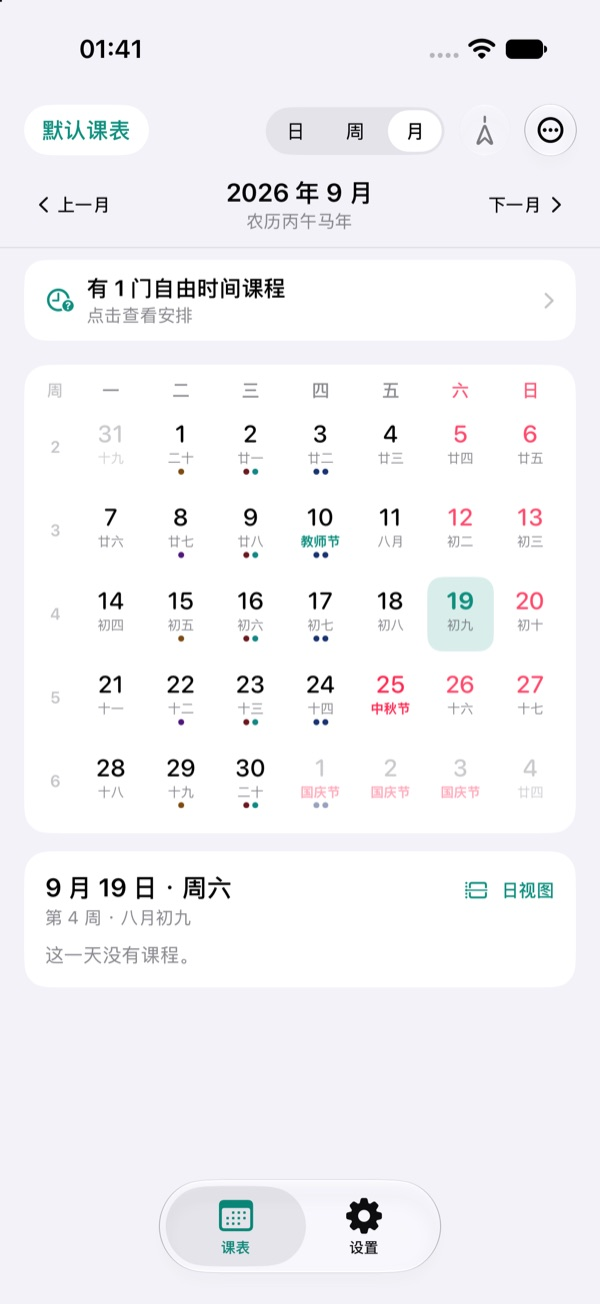
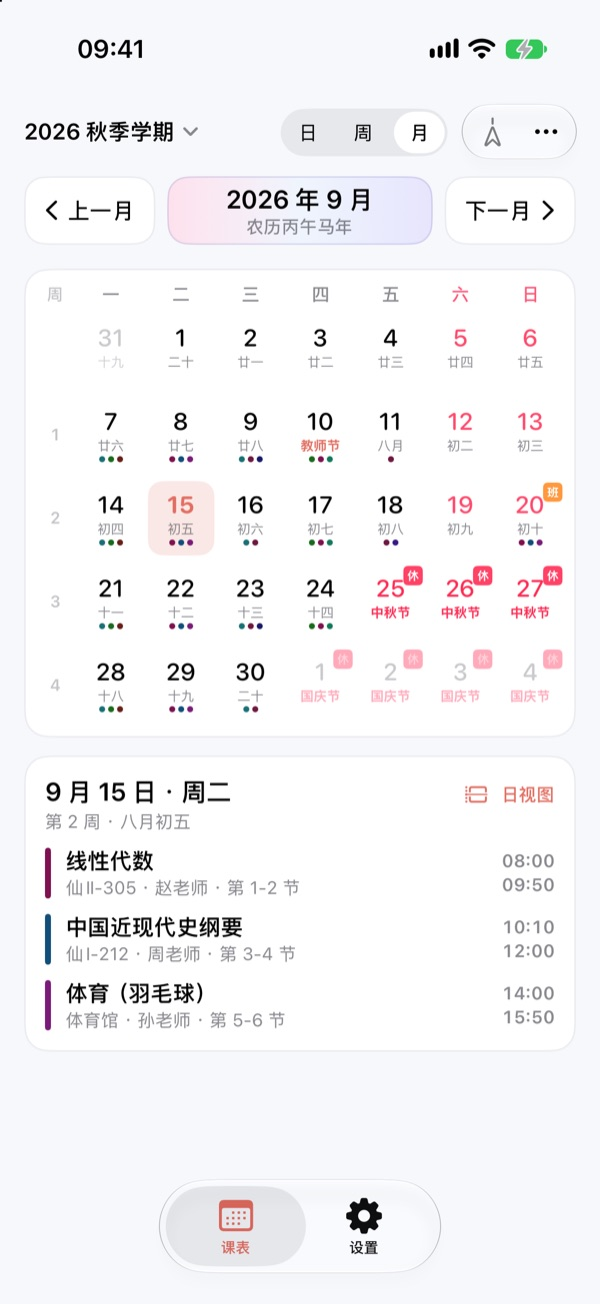
docs(site): new screenshots, no-login Live Activity copy and anti-abuse notes
Screenshots are retaken (day, week and dark week view, Dynamic Island,
lock screen, widgets) and unused ones removed. The Live Activity copy
says no account is needed and the beta is free. The privacy page covers
the hashed share publisher id, App Attest keys and 180-day share expiry.

diff --git a/server/static/site/index.html b/server/static/site/index.html
@@ -4,7 +4,7 @@
 <meta charset="utf-8">
 <meta name="viewport" content="width=device-width, initial-scale=1, viewport-fit=cover">
 <title>你以为课表</title>
-<meta name="description" content="你以为课表：原生 Apple 平台课表应用。日、周、月视图，农历与调休，桌面小组件，实时活动与灵动岛上课提醒。">
+<meta name="description" content="你以为课表：原生 Apple 平台课表应用。周、日、月视图，农历与调休，桌面小组件，锁屏和灵动岛上的实时上课提醒。">
 <link rel="icon" href="/site/img/favicon.png">
 <link rel="apple-touch-icon" href="/site/img/icon.png">
 <link rel="stylesheet" href="/site/site.css">
@@ -15,6 +15,7 @@
     <a class="brand" href="/"><img src="/site/img/favicon.png" alt="">你以为课表</a>
     <nav>
       <a href="#features">功能</a>
+      <a href="#live">实时通知</a>
       <a href="#screens">预览</a>
       <a href="/privacy">隐私政策</a>
     </nav>
@@ -32,8 +33,8 @@
       </ul>
     </div>
     <div class="hero-shots">
-      <img class="phone" src="/site/img/week-view.jpg" alt="周视图：按节次排列的一周课表">
-      <img class="phone" src="/site/img/month-view.jpg" alt="月视图：带农历和节日的月历">
+      <img class="phone back" src="/site/img/month-view.jpg" alt="月视图：带农历、节日和调休标记的月历">
+      <img class="phone front" src="/site/img/week-view.jpg" alt="周视图：按节次排列的一周课表，周日标出调休补班">
     </div>
   </div>
 
@@ -44,13 +45,37 @@
         <p>围绕「我现在要去哪上课」这一件事做好。</p>
       </div>
       <div class="features">
-        <div class="card"><div class="dot">日</div><h3>日、周、月三种视图</h3><p>按天或按周翻页查看课表；月视图显示农历、节日和课程圆点，点一下就能看当天安排。</p></div>
+        <div class="card"><div class="dot">周</div><h3>一周课表，一屏看完</h3><p>默认打开周课表，按节次排好整周课程；也可以切到日视图专看今天，或者用月视图查农历、节日和每天有几节课。</p></div>
         <div class="card"><div class="dot">导</div><h3>从学校导入，或手动创建</h3><p>在学校自己的登录页导入课表，导入前自动检查时间冲突。学校不在列表里，也可以自己设置学期、节次和课程。</p></div>
         <div class="card"><div class="dot">休</div><h3>调休与节假日</h3><p>放假日自动隐藏课程，补班日显示被补那天的课，周视图和月视图标出「班」「休」。</p></div>
-        <div class="card"><div class="dot">件</div><h3>桌面小组件</h3><p>临近课程、今日课表、两日课表多种尺寸，可选时间线或列表布局，课程结束时自动刷新。</p></div>
-        <div class="card"><div class="dot">岛</div><h3>实时活动与灵动岛</h3><p>上课前在锁屏和灵动岛倒计时，课间也可以保留。开启服务端提醒后，不打开 App 也能按时提醒。</p></div>
-        <div class="card"><div class="dot">享</div><h3>分享给同学</h3><p>生成分享码发给朋友，对方看到的是你的课表和你学校的作息；也能把 TA 的课表设为小组件提示来源。</p></div>
+        <div class="card"><div class="dot">件</div><h3>桌面小组件</h3><p>临近课程、今日课表、两日课表多种尺寸，可选时间线或列表布局，上下课时自动刷新。</p></div>
+        <div class="card"><div class="dot">岛</div><h3>锁屏与灵动岛实时通知</h3><p>课前倒计时、上课中显示距下课时间，下课自动换到下一节。由服务端按时启动，不打开 App 也会准时出现。</p></div>
+        <div class="card"><div class="dot">享</div><h3>分享给同学</h3><p>生成分享码发给朋友，对方看到的是你的课表和你学校的作息；也可以关心 TA 的课表，让两个人的课一起提醒。</p></div>
       </div>
+    </div>
+  </section>
+
+  <section id="live">
+    <div class="wrap">
+      <div class="section-head">
+        <h2>下一节课，自己跳出来</h2>
+        <p>实时通知把课程放在锁屏和灵动岛上，从课前一直陪到下课。</p>
+      </div>
+      <div class="live">
+        <div class="live-shots">
+          <img src="/site/img/live-lock-screen.png" alt="锁屏实时活动：大学英语 14:00 上课，距上课 30 分钟" loading="lazy">
+          <img src="/site/img/live-island-expanded.png" alt="灵动岛展开：正在上课，距下课 1 小时 15 分，带进度条" loading="lazy">
+          <img class="compact" src="/site/img/live-island-compact.png" alt="灵动岛紧凑样式：显示距上课倒计时" loading="lazy">
+        </div>
+        <ul class="live-points">
+          <li><strong>课前、课中、课间都有数。</strong>上课前 15 分钟、30 分钟或 1 小时开始倒计时；上课后显示距下课时间和进度；打开「课间也保留」，课间会接着倒计时到下一节。</li>
+          <li><strong>不打开 App 也准时。</strong>服务端按你的节次和周次安排每节课的提醒，通过 Apple 推送启动实时活动，一直到学期结束；iOS 26 及以上还会在手机上预约最近几节。</li>
+          <li><strong>课程内容留在手机上。</strong>上传的只有节次、周次和提醒设置这些时间信息，课程名、老师和教室由手机本地显示。</li>
+          <li><strong>和同学的课一起提醒。</strong>关心同学的共享课表后，两个人时间重叠的课并排显示、各自倒计时；对方更新了课表，提醒会自动重新安排。</li>
+          <li><strong>测试期间免费。</strong>不用注册账号，打开开关就能用，Beta 阶段不需要订阅；正式上线后按月订阅，首月免费。查看课表和小组件始终免费。</li>
+        </ul>
+      </div>
+      <p class="note">实时通知需要 iOS 18 或更高版本，iOS 17 可以预览效果。</p>
     </div>
   </section>
 
@@ -62,13 +87,14 @@
       </div>
       <div class="gallery">
         <figure><img src="/site/img/week-view.jpg" alt="周视图" loading="lazy"><figcaption>周视图</figcaption></figure>
+        <figure><img src="/site/img/week-view-dark.jpg" alt="深色外观下的周视图" loading="lazy"><figcaption>深色外观</figcaption></figure>
+        <figure><img src="/site/img/day-view.jpg" alt="日视图" loading="lazy"><figcaption>日视图</figcaption></figure>
         <figure><img src="/site/img/month-view.jpg" alt="月视图" loading="lazy"><figcaption>月视图</figcaption></figure>
-        <figure><img src="/site/img/onboarding-import.jpg" alt="导入课表" loading="lazy"><figcaption>导入课表</figcaption></figure>
-        <figure><img src="/site/img/device-settings.jpg" alt="设置" loading="lazy"><figcaption>课表与外观设置</figcaption></figure>
+        <figure><img src="/site/img/onboarding-import.jpg" alt="选择学校导入课表" loading="lazy"><figcaption>导入课表</figcaption></figure>
       </div>
       <div class="widgets">
-        <img src="/site/img/today-widget.jpg" alt="今日课表小组件" loading="lazy">
-        <img src="/site/img/two-day-widget.jpg" alt="两日课表小组件" loading="lazy">
+        <figure><img src="/site/img/upcoming-widget.png" alt="临近课程小组件：下一节大学英语" loading="lazy"><figcaption>临近课程小组件</figcaption></figure>
+        <figure><img src="/site/img/two-day-widget.png" alt="两日课表小组件：今明两天的课程时间线" loading="lazy"><figcaption>两日课表小组件</figcaption></figure>
       </div>
     </div>
   </section>
@@ -85,7 +111,7 @@
           <li>没有广告，不接入第三方统计或广告 SDK，不跨 App 追踪你。</li>
           <li>学校账号和密码只在学校自己的网页里输入，不会发给我们。</li>
           <li>基础统计只包含学校、系统版本、设备型号等信息，不包含课程内容。</li>
-          <li>服务端实时提醒是可选的，随时可以在「设置 → 隐私与数据」撤回。</li>
+          <li>实时通知是可选的，上传内容不含课程名、老师和教室，随时可以在「设置 → 隐私与数据」撤回。</li>
         </ul>
       </div>
     </div>
@@ -99,6 +125,10 @@
       <a href="/privacy">隐私政策</a>
       <a href="https://github.com/mom0ka27/naptable">源代码（AGPL-3.0）</a>
       <a href="mailto:iridium.zrf@gmail.com">联系我们</a>
+    </nav>
+    <nav class="registrations" aria-label="网站备案信息">
+      <a href="https://beian.miit.gov.cn/" target="_blank" rel="noopener noreferrer">粤ICP备2026117069号-2</a>
+      <a href="https://beian.mps.gov.cn/#/query/webSearch?code=44030002016930" target="_blank" rel="noopener noreferrer">粤公网安备44030002016930号</a>
     </nav>
   </div>
 </footer>

diff --git a/server/static/site/site.css b/server/static/site/site.css
@@ -5,8 +5,9 @@
   --ink: #1d2126;
   --muted: #69717b;
   --line: #e3e6ea;
-  --accent: #0f8a78;
-  --accent-soft: #e3f3ef;
+  --accent: #c4503f;
+  --accent-soft: #fbe7e3;
+  --on-accent: #fff;
   --warm: #fbe3dd;
   --radius: 22px;
   --wrap: 1040px;
@@ -20,8 +21,9 @@
     --ink: #eef1f3;
     --muted: #9aa3ab;
     --line: #2c3236;
-    --accent: #3cc2ab;
-    --accent-soft: #173430;
+    --accent: #f08a7e;
+    --accent-soft: #3a2422;
+    --on-accent: #2a1411;
     --warm: #3a2724;
   }
 }
@@ -49,9 +51,10 @@ a:hover { text-decoration: underline; }
 .lead { font-size: 18px; color: var(--muted); margin: 0 0 28px; max-width: 32em; }
 .tags { display: flex; flex-wrap: wrap; gap: 8px; padding: 0; margin: 0; list-style: none; font-size: 13px; }
 .tags li { background: var(--surface); border: 1px solid var(--line); border-radius: 999px; padding: 4px 12px; color: var(--muted); }
-.hero-shots { position: relative; display: flex; justify-content: center; }
-.phone { width: 260px; border-radius: 34px; border: 6px solid var(--surface); box-shadow: 0 24px 60px rgb(20 40 40 / 0.16); overflow: hidden; background: var(--surface); }
-.hero-shots .phone + .phone { position: absolute; width: 210px; right: 0; bottom: -24px; transform: rotate(4deg); }
+.hero-shots { position: relative; display: flex; justify-content: flex-end; padding-left: 90px; }
+.phone { width: 260px; border-radius: 34px; border: 6px solid var(--surface); box-shadow: 0 24px 60px rgb(40 20 20 / 0.16); overflow: hidden; background: var(--surface); }
+.hero-shots .front { position: relative; z-index: 1; }
+.hero-shots .back { position: absolute; width: 200px; left: 0; top: 36px; transform: rotate(-5deg); }
 
 section { padding-block: 56px; }
 .section-head { margin-bottom: 28px; }
@@ -64,23 +67,34 @@ section { padding-block: 56px; }
 .card p { margin: 0; color: var(--muted); font-size: 15px; }
 .dot { width: 36px; height: 36px; border-radius: 11px; background: var(--accent-soft); color: var(--accent); display: grid; place-items: center; font-weight: 700; margin-bottom: 14px; font-size: 15px; }
 
-.gallery { display: grid; grid-template-columns: repeat(4, 1fr); gap: 16px; }
-.gallery figure { margin: 0; }
+.live { display: grid; grid-template-columns: 1fr 1fr; gap: 36px; align-items: center; }
+.live-shots { display: grid; gap: 14px; justify-items: center; background: var(--warm); border-radius: 28px; padding: 28px; }
+.live-shots img { width: 100%; max-width: 420px; }
+.live-shots .compact { max-width: 276px; }
+.live-points { margin: 0; padding: 0; list-style: none; display: grid; gap: 14px; }
+.live-points li { color: var(--muted); font-size: 15px; }
+.live-points strong { display: block; color: var(--ink); font-size: 17px; margin-bottom: 2px; }
+.note { color: var(--muted); font-size: 14px; margin: 20px 0 0; }
+
+.gallery { display: grid; grid-template-columns: repeat(5, 1fr); gap: 16px; }
+.gallery figure, .widgets figure { margin: 0; }
 .gallery img { border-radius: 20px; border: 1px solid var(--line); }
-.gallery figcaption { text-align: center; color: var(--muted); font-size: 14px; margin-top: 10px; }
-.widgets { display: grid; grid-template-columns: 1fr 1fr; gap: 16px; align-items: start; margin-top: 16px; }
-.widgets img { border-radius: 22px; border: 1px solid var(--line); }
+.gallery figcaption, .widgets figcaption { text-align: center; color: var(--muted); font-size: 14px; margin-top: 10px; }
+.widgets { display: grid; grid-template-columns: 1fr 1fr; gap: 20px 28px; align-items: center; margin-top: 28px; background: var(--accent-soft); border-radius: 28px; padding: 28px; }
+.widgets img { max-width: 360px; width: 100%; }
+.widgets img { margin-inline: auto; }
 
 .privacy-band { background: var(--warm); border-radius: 28px; padding: 36px; display: grid; grid-template-columns: 1fr 1fr; gap: 28px; }
 .privacy-band h2 { margin: 0 0 8px; font-size: 26px; }
 .privacy-band ul { margin: 0; padding-left: 1.2em; }
 .privacy-band li { margin-bottom: 6px; }
-.button { display: inline-block; margin-top: 16px; background: var(--accent); color: #fff; padding: 10px 20px; border-radius: 999px; font-weight: 600; font-size: 15px; }
+.button { display: inline-block; margin-top: 16px; background: var(--accent); color: var(--on-accent); padding: 10px 20px; border-radius: 999px; font-weight: 600; font-size: 15px; }
 .button:hover { text-decoration: none; filter: brightness(1.05); }
 
 footer { border-top: 1px solid var(--line); padding-block: 28px 40px; color: var(--muted); font-size: 14px; }
 footer .wrap { display: flex; flex-wrap: wrap; gap: 12px 24px; justify-content: space-between; }
 footer nav { display: flex; gap: 20px; flex-wrap: wrap; }
+footer .registrations { flex-basis: 100%; gap: 8px 20px; }
 footer a { color: var(--muted); }
 
 /* Policy document */
@@ -105,16 +119,20 @@ tr:last-child td { border-bottom: 0; }
 
 @media (max-width: 860px) {
   .hero { grid-template-columns: 1fr; padding-top: 44px; }
-  .hero-shots { justify-content: flex-start; padding-right: 90px; }
+  .hero-shots { justify-content: flex-start; padding-left: 0; }
+  .hero-shots .back { left: 200px; }
   .features { grid-template-columns: 1fr 1fr; }
-  .gallery { grid-template-columns: 1fr 1fr; }
+  .live { grid-template-columns: 1fr; }
+  .gallery { grid-template-columns: repeat(3, 1fr); }
   .privacy-band { grid-template-columns: 1fr; padding: 26px; }
 }
 @media (max-width: 560px) {
   .nav nav { gap: 14px; font-size: 14px; }
   .features, .widgets { grid-template-columns: 1fr; }
   .phone { width: 210px; }
-  .hero-shots .phone + .phone { width: 160px; }
+  .hero-shots .back { width: 160px; left: 150px; }
+  .gallery { grid-template-columns: 1fr 1fr; }
+  .live-shots, .widgets { padding: 18px; }
   .toc ol { columns: 1; }
   .doc h1 { font-size: 28px; }
   table { min-width: 0; }

diff --git a/server/static/site/privacy.html b/server/static/site/privacy.html
@@ -90,8 +90,12 @@
     <li>所在学校与学期，以及发布时的学期时间配置（节次时间、第一周周一、总周数和调休）。</li>
   </ul>
   <p><strong>请注意：</strong>任何拿到分享码的人都可以读取这份分享的内容，请只发给你信任的人。更新或撤销分享需要仅保存在你设备上的写入凭证；撤销分享或更换分享码后，旧分享码立即失效，对应记录会从服务端数据库中删除。</p>
+  <p><strong>防止滥用：</strong>服务端会给每份分享记下发布者的匿名标识（App Attest 设备密钥的哈希值；没有时用网络地址的哈希值），用来限制每人同时保留的分享数量和发布频率，并记录分享最近一次被查看的日期（每天最多更新一次）。</p>
 
-  <h3>4. 服务器访问日志</h3>
+  <h3>4. App Attest 校验</h3>
+  <p>发布分享、开启实时通知和上报基础统计时，App 会使用 Apple 的 App Attest 证明请求来自正版 App 而不是脚本。App 在设备的安全芯片中生成一把随机密钥，并请 Apple 为它出具证明；服务端只保存这把密钥的标识、公钥和使用计数，并按天汇总各接口的校验结果（只有次数，不含设备）。这把密钥不是姓名、手机号、广告标识或设备序列号，重装 App 会生成新的密钥。</p>
+
+  <h3>5. 服务器访问日志</h3>
   <p>与服务端的网络通信可能在服务器访问日志中留下 IP 地址、请求时间和请求路径等技术信息。这些日志仅用于保障服务安全（例如防止滥用）和排查故障，按服务器日志轮换策略定期删除，不用于识别个人或与其他数据关联分析。</p>
 
   <h2 id="local">三、只保存在设备上的信息</h2>
@@ -117,7 +121,8 @@
     <tbody>
       <tr><td>基础统计原始记录</td><td>最后一次上报后 90 天，在下一次统计写入或查询时清理。每日打开人数只保留汇总数字。</td></tr>
       <tr><td>实时通知数据（推送令牌、上传的课表时间结构、关心关系）</td><td>在你撤回许可或关闭实时通知时清除；离线时会在恢复网络后重试清除。服务端可能保留不含推送令牌和课表的撤销、发送记录，用于防止重复发送和排查问题。</td></tr>
-      <tr><td>课表分享</td><td>保存至你撤销该分享或更换分享码，届时从数据库中删除；已删除的分享可能仍留在运维备份中，随备份轮换一并删除。</td></tr>
+      <tr><td>课表分享</td><td>保存至你撤销该分享或更换分享码，届时从数据库中删除；超过 180 天既没人查看也没更新、且没有设备关心的分享会被自动删除。已删除的分享可能仍留在运维备份中，随备份轮换一并删除。</td></tr>
+      <tr><td>App Attest 密钥</td><td>密钥标识和公钥长期保存，用于校验同一安装后续的请求；每日校验结果汇总保留 90 天。</td></tr>
       <tr><td>数据库运维备份</td><td>保留最近 14 份，随新备份自动轮换删除。</td></tr>
       <tr><td>设备本地数据</td><td>由你控制，删除 App 即全部清除。</td></tr>
     </tbody>
@@ -157,6 +162,10 @@
       <a href="/">首页</a>
       <a href="https://github.com/mom0ka27/naptable">源代码</a>
       <a href="mailto:iridium.zrf@gmail.com">联系我们</a>
+    </nav>
+    <nav class="registrations" aria-label="网站备案信息">
+      <a href="https://beian.miit.gov.cn/" target="_blank" rel="noopener noreferrer">粤ICP备2026117069号-2</a>
+      <a href="https://beian.mps.gov.cn/#/query/webSearch?code=44030002016930" target="_blank" rel="noopener noreferrer">粤公网安备44030002016930号</a>
     </nav>
   </div>
 </footer>
